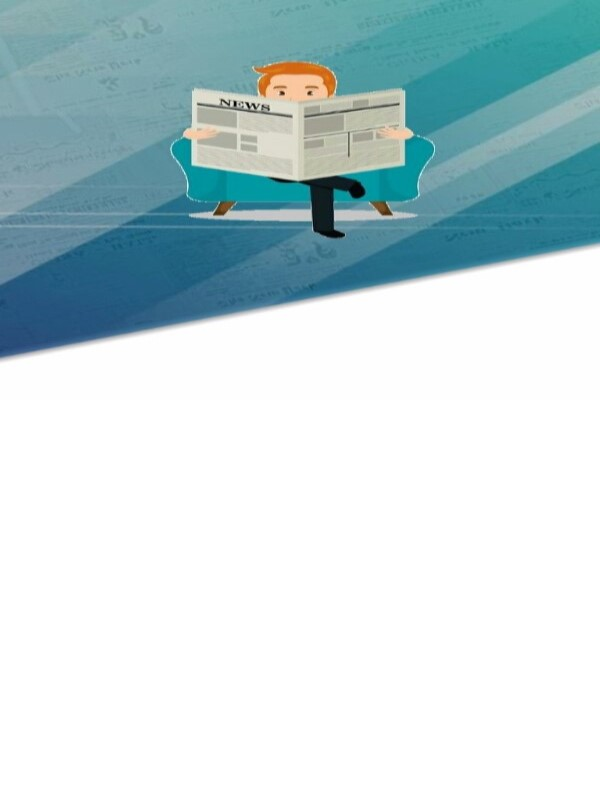
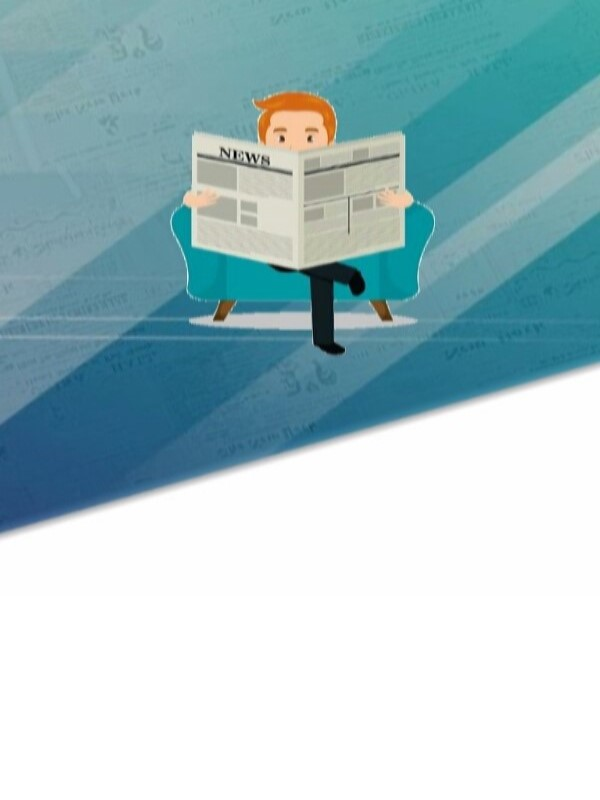
upto

diff --git a/css/styles.css b/css/styles.css
@@ -106,14 +106,14 @@ h1{top:3%; left:30%;}
 #newsletter{position:fixed; top:330px; left:50px; font-weight:bold; letter-spacing:2px; font-size:13px; color:black; opacity:.3; text-decoration:none;}
 #newsletter:hover{letter-spacing:10px; font-size:18px; opacity:1;}
 #mail{position:absolute; top:59%; left:70%; display:none;}
-#newsletter-modal{position:absolute; height:100%; width:100%; background:url("/images/news-img.jpg"); top:0%; left:0%;}
-#newsletter-modal>img{position:absolute; height:80%; width:100%; display:none; }
+#newsletter-modal{position:absolute; height:100%; width:100%; background:transparent; top:0%; left:0%;}
+#newsletter-modal>img{position:absolute; height:80%; width:100%; display:block; }
 #newsletter-form{position:fixed; background:white; width:100%; height:100%; left:0%; top:0%; display:none; }
 #sign-in{position:absolute; top:90.5%; left:3%; width:80%; height:6%; background:rgba(0,0,0,.08); border-radius:60px 20px 20px 60px;}
-#email-sub{position:absolute; top:0%; left:15.5%; font-size:13px; font-weight:bold;  width:84.3%; height:100%; letter-spacing:3px; text-align:center; color:rgba(0,0,0,1); background:white; overflow:scroll; border-radius:60px 20px 20px 60px;}
+#email-sub{position:absolute; top:0%; left:15.5%; font-size:13px; font-weight:bold;  width:79.3%; height:100%; letter-spacing:3px; text-align:center; color:rgba(0,0,0,1); background:white; overflow:scroll; border-radius:60px 20px 20px 60px;}
 #btn-sub{position:absolute; top:3%; left:1%; opacity:1; background:transparent; color:teal; border:transparent; width:10%; height:10%;}
-#cancel{position:absolute; top:90.5%; right:0%;}
-#recent{position:absolute; top:91.9%; right:11%; font-size:18px;}
+#cancel{position:absolute; top:90.5%; right:1%;}
+#recent{position:absolute; top:91.9%; right:16%; font-size:18px;}
 #email-sub1{display:none;}
 #btn-sub1{display:none;}
 

diff --git a/index.html b/index.html
@@ -94,10 +94,11 @@
 			<div id="sign-in" id="email-sub"><input class="uk-input" id="email-sub"  type="email" placeholder="Your email.com"> <button class="uk-input" id="btn-sub" type="submit"><span style="font-size:22px;" class="glyphicon glyphicon-send"></span></button></div>
 			
 			</form>
-			
-				<img data-src="/images/news-img.jpg" uk-img>
+			 <div uk-scrollspy="cls:uk-animation-fade; target:>.holder; delay:80; repeat:true;">
+				<img clss="holder" data-src="/images/news-img.jpg" uk-img>
 			</div>
 			
+			</div>
 			</div>
 			
 			
